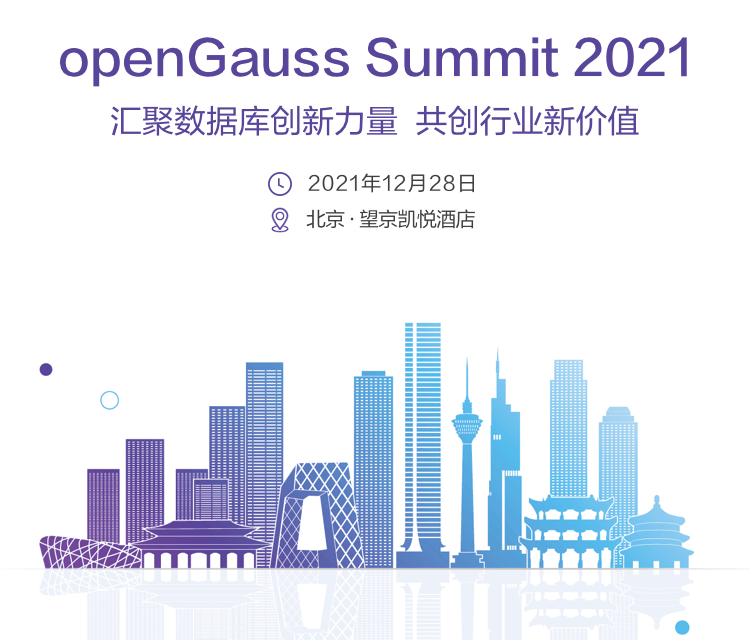
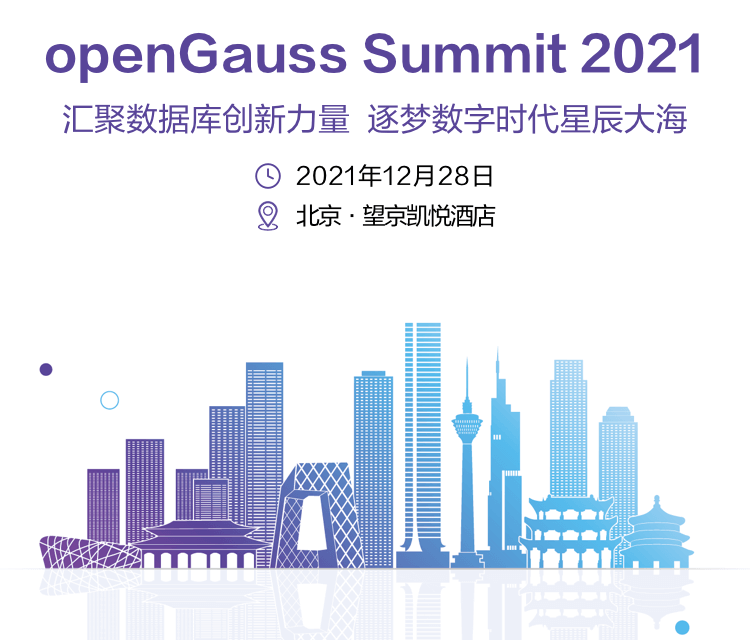
summit live video test

Changed region(s): [[0.0613, 0.0312, 0.9507, 0.2188], [0.3373, 0.25, 0.6747, 0.375]]

diff --git a/themes/project/layouts/summit/list.html b/themes/project/layouts/summit/list.html
@@ -3,7 +3,7 @@
 
   {{ partial "head.html" . }}
   <link rel="stylesheet" href="{{ "css/pagination.css" | relURL}}?t={{ mul 1000 (time now).Unix }}">
-  <link href="{{ "css/summit.css" | relURL}}?t={{ mul 1000 (time now).Unix }}" rel="stylesheet"> 
+  <link href="{{ "css/summit.css" | relURL}}?t={{ mul 1000 (time now).Unix }}" rel="stylesheet">
   <body>
 
     <div id="all">
@@ -36,11 +36,16 @@
             <div class="container summitMain">  
                 <p class="text">{{ .Params.infotext }} </p>
                 <p class="text">{{ .Params.infotext1 }} </p>
-                <h2 class="tit1">{{ .Params.tit1 }} </h2>  
-                 
+                  
+                <h2 class="tit0">{{ .Params.tit0 }} </h2> 
+                <div class="liveBox mo">  
+                    <a href="javascript:;" data-id="10060">海量数据</a>
+                    <a href="javascript:;" class="center active" data-id="10059">openGauss Summit 2021 主会场</a>
+                    <a href="javascript:;" data-id="10062">云和恩墨</a> 
+                </div> 
                 <iframe
                     id="livePage"
-                    style="height:630px;"
+                    style="height:550px;"
                     allow="camera *;microphone *;"
                     border="0"
                     scrolling="no"
@@ -49,13 +54,12 @@
                     webkitallowfullscreen="true"
                     mozallowfullscreen="true"
                 ></iframe>
-                 <div class="liveBox"> 
-                    <a href="javascript:;" class="active" data-id="10059">主会场</a>
+                <div class="liveBox pc">  
                     <a href="javascript:;" data-id="10060">海量数据</a>
-                    <a href="javascript:;" data-id="10062">云和恩墨</a>
-                    <a href="javascript:;" data-id="10061">神舟通用</a>  
-                 </div>   
-
+                    <a href="javascript:;" class="center active" data-id="10059">openGauss Summit 2021 主会场</a>
+                    <a href="javascript:;" data-id="10062">云和恩墨</a> 
+                </div> 
+                <h2 class="tit1">{{ .Params.tit1 }} </h2> 
                 {{ range .Params.module }}
                 <div class="summit-container"> 
                     <h3>{{ .daytime }}</h3> 

diff --git a/themes/project/static/js/summit.js b/themes/project/static/js/summit.js
@@ -7,15 +7,29 @@ $(function () {
                 data = JSON.parse(event.data);
             } catch (e) {
                 data = event.data;
-            } 
-            console.log("收到" + event.origin + " 消息： " , data)
+            }   
+            
+            console.log(data);
             if (data.height == "auto") {
-                livePage.css("height", 550);
-            } else if (data.height) {
-                livePage.css("height", parseInt(data.height));
+                livePage.css("height", 550); 
+            } else if (data.height) { 
+                livePage.css("height", parseInt(data.height)); 
+            }else{
+                let playerBoxW = livePage.width() || document.body.getBoundingClientRect().width ;
+                let cutVal = 352,playerBoxH = 0 ;  
+                // state: 0.未开播  1.已开播  2.已结束   3.回放中
+                if(data.state == 1 || data.state == 2){ 
+                    playerBoxH = (playerBoxW -cutVal ) / 16 * 9 + 40 + 'px'
+                }else{  
+                    playerBoxH = playerBoxW / 16 * 9 - 48 + 'px'
+                }  
+                livePage.css("height", playerBoxH); 
             }
-        },
-        false
+            if(data.state == 3){ 
+                $('.tit0').text('精彩回顾')
+            }
+          
+        },false
     );
 
     $('.liveBox a').click(function(){
@@ -29,18 +43,17 @@ $(function () {
             digit > 3 ? digit : (digit = 3);
         
         let returnId = '',userName = '';
-
         let charStr =
             "0123456789@#$%&~ABCDEFGHIJKLMNOPQRSTUVWXYZabcdefghijklmnopqrstuvwxyz";
-        for (var i = 0; i < digit; i++) {
+        
+            for (var i = 0; i < digit; i++) {
             var index = Math.round(Math.random() * (charStr.length - 1));
             returnId += charStr.substring(index, index + 1);
         }
-        userName = returnId; 
-        console.log('liveId',liveId,'userName',userName)
+        userName = returnId;        
         livePage.attr(
             "src",
-            `https://vhall.huawei.com/v2/embed/${liveId}?embed=video&lang=zh&thirdId=${userName}`
+            `https://vhall.huawei.com/v2/watch/${liveId}?lang=zh&thirdId=${userName}`
         );
     }
     creatUserId('10059');

diff --git a/themes/project/static/css/summit.css b/themes/project/static/css/summit.css
@@ -86,6 +86,9 @@
     margin: 60px 0 30px;
 
 } 
+.summitMain .tit0{
+    background: url("/img/summit/tit0.png") no-repeat  center;
+}
 .summitMain .tit1{
     background: url("/img/summit/tit1.png") no-repeat  center;
 }
@@ -231,7 +234,7 @@
         display: none;
     }
     .summitPoster{
-        background-image: url("/img/summit/banner_mo.png") !important;
+        background-image: url("/img/summit/homeBanner_mo.png") !important;
         height: 320px;
         background-size: contain; 
         margin-bottom: 40px;
@@ -291,37 +294,67 @@
 }
 .liveBox{
     display: flex;
+    flex-direction: row;
+    width: 100%;
+    flex-wrap: wrap;
     justify-content: space-between;
-    margin-top: 10px;
+    margin-top: 24px;
 }
 .liveBox a{
-    line-height: 80px;
-    font-size: 16px;
+    line-height: 96px;
+    font-size: 20px;
     text-align: center;
-    width: 270px;
-    box-shadow: 0 6px 20px 0 rgb(0 0 0 / 10%);
+    width: 300px;
+    color: #594599;
+    box-shadow: 0px 3px 10px 0px rgba(0, 0, 0, 0.1);
     transition: all .3s cubic-bezier(.645,.045,.355,1);
-    border-radius: 4px;
+    border-radius: 8px;
+    text-decoration: none !important; 
+    margin-left: 10px;
 }
-.liveBox a:hover{
-    text-decoration: none;
+.liveBox a:first-of-type{    
+    margin-left: 0;
+} 
+.liveBox a.center{
+    flex: 1;
 }
 .liveBox a.active{
-    background: #467fbf;
+    background: #755BC7;
     color: #fff;
+} 
+.liveBox.mo{
+    display: none;
+    margin: 0 0 10px;
 }
 @media screen and (max-width: 1000px) {
     #livePage {
         width:100%; 
     } 
-    .liveBox{
-        margin: 0 -5px;
+    .liveBox.mo{
+        display:flex
     }
-    .liveBox a {
-        flex: 1;
+    .liveBox.pc{
+        display:none
+    } 
+    .liveBox a.center{
+        flex:inherit;
+        width: 100%;
+        display: block;
+        position: absolute;
+        top: 0;
+        left: 0;
+        margin: 0;
+    }
+    .liveBox{
+        position: relative;
+        padding-top: 58px;
+    }
+    .liveBox a { 
+        flex:1; 
         margin: 0 5px;
         font-size: 14px;
-        line-height: 40px;
-    }
+        line-height: 48px; 
+    } 
+    
 }
 

diff --git a/themes/project/static/js/download.js b/themes/project/static/js/download.js
@@ -33,6 +33,12 @@ $(document).ready(function () {
         var index = cookies.indexOf(name);
         return index === -1 ? false : true;
     }; 
+    const setCookie = function (name, value) {
+        var currentTime = new Date();
+        currentTime.setTime(currentTime.getTime() + 30 * 24 * 60 * 60 * 1000);
+        var newCookie = name + '=' + value + ';expires=' + currentTime.toGMTString() + ';path=/';
+        document.cookie = newCookie;
+    };
  
     const closeDownCookie = function () {
         var hasCookie = getCookie('isDownTips=');

diff --git a/content/zh/banner/4.md b/content/zh/banner/4.md
@@ -1,6 +1,6 @@
 +++
 title = "openGauss Summit 2021"
-info = "汇聚数据库创新力量 共创行业新价值"
+info = "汇聚数据库创新力量 逐梦数字时代星辰大海"
 bgUrl = "img/summit/banner.png"
 mobileUrl = "img/summit/homeBanner_mo.png"
 bgLeft = "img/home_banner/banner_bg_white.png"
